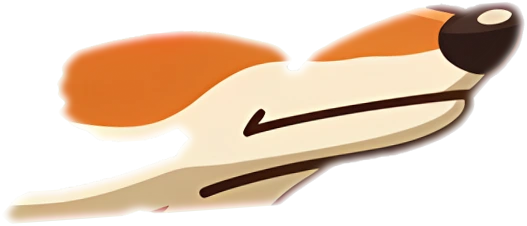
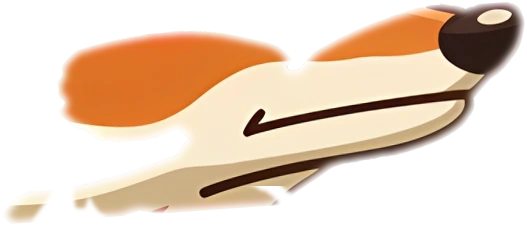
Rig: collar opening filled with cream fur, head and mouths tucked under the shirt; trouser hem drapes over the shoe (flared break, shoe forward and higher)

Changed region(s): [[0.0607, 0.8363, 0.2125, 0.9912], [0.4554, 0.8053, 0.5769, 0.8982]]

diff --git a/src/character/AgentFox.ts b/src/character/AgentFox.ts
@@ -1927,8 +1927,12 @@ function drawFoxSheetRig(g: G, pose: FoxPose): void {
     // Control point at the knee: a gentle, even bend (the curve does not overshoot into a banana).
     const c: V2 = knee;
     // Shoe first: the trouser hem falls over the top of the shoe instead of the shoe sitting on it.
-    anchored(g, `shoe_${name}`, ankle[0], ankle[1], footRot);
-    noodle(g, `leg_${name}`, hip, c, ankle);
+    // The shoe sits a little higher and further forward than the hem, so the trouser drapes over its
+    // ankle opening (a slight "break" that flares at the hem) instead of ending on top of it.
+    const sx = ankle[0] + Math.cos(footRot) * 10 * RK;
+    const sy = ankle[1] - 9 * RK + Math.sin(footRot) * 10 * RK;
+    anchored(g, `shoe_${name}`, sx, sy, footRot);
+    noodle(g, `leg_${name}`, hip, c, ankle, 0, 1, (t) => 1 + 0.12 * Math.pow(Math.max(0, (t - 0.8) / 0.2), 2));
     mark(g, `hip_${name}`, hip);
     mark(g, `knee_${name}`, [(hip[0] + 2 * c[0] + ankle[0]) / 4, (hip[1] + 2 * c[1] + ankle[1]) / 4]);
     mark(g, `ankle_${name}`, ankle);
